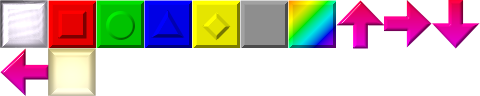
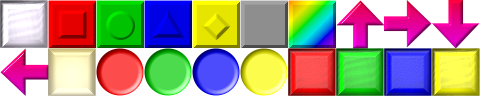
gates

diff --git a/tb.js b/tb.js
@@ -26,9 +26,10 @@ var level = 0;
 
 var BLOCK_CODE = ['1', '2', '3', '4', '5', '6', '9'];
 var MOVABLE_CODE = BLOCK_CODE.concat(['0']);
-var SOLID_CODE = MOVABLE_CODE.concat(['X']);
-var BOTTOM_LAYER_CODE = ['W', 'A', 'S', 'D', 'T'];
-var BOTTOM_LAYER_CLASSES = '.leftArrow, .rightArrow, .upArrow, .downArrow, .sticky';
+var GATE_CODE = ['U', 'I', 'O', 'P'];
+var SOLID_CODE = MOVABLE_CODE.concat(GATE_CODE).concat(['X']);
+var BOTTOM_LAYER_CODE = ['W', 'A', 'S', 'D', 'T', 'H', 'J', 'K', 'L'];
+var BOTTOM_LAYER_CLASSES = '.leftArrow, .rightArrow, .upArrow, .downArrow, .sticky, .redTrigger, .greenTrigger, .blueTrigger, .yellowTrigger';
 
 var PROGRESS_KEY = 'tb_level';
 
@@ -558,6 +559,18 @@ function moveBlocks(dirR, dirC) {
 		}
 	}
 	
+	// gate "moves" to fix animation
+	for (var i = 0; i < BOARD_SIZE; ++i) {
+		for (var j = 0; j < BOARD_SIZE; ++j) {
+			if ($.inArray(board[i][j], GATE_CODE) >= 0) {
+				var elem = moveBlock(i, j, i, j);
+				if (elem) {
+					changeSet.push(elem);
+				}
+			}
+		}
+	}
+	
 	return changeSet;
 }
 
@@ -566,6 +579,7 @@ function eliminateBlocks() {
 	for (var i = 0; i < BOARD_SIZE; ++i){
 		for (var j = 0; j < BOARD_SIZE; ++j) {
 			if ($.inArray(board[i][j], BLOCK_CODE) >= 0) {
+				// normal blocks
 				var color = board[i][j];
 				var visited = [];
 				for (var k = 0; k < BOARD_SIZE; ++k) 
@@ -615,6 +629,51 @@ function eliminateBlocks() {
 					for (var i in eliminated) {
 						board[eliminated[i][0]][eliminated[i][1]] = bottomBoard[eliminated[i][0]][eliminated[i][1]];
 						eliminateSet.push(eliminated[i]);
+					}
+				}
+				
+				// gates
+				if (bottomBoard[i][j] == 'H') {
+					for (var k = 0; k < BOARD_SIZE; ++k){
+						for (var l = 0; l < BOARD_SIZE; ++l) {
+							if (board[k][l] == 'U') {
+								board[k][l] = '.';
+								eliminateSet.push([k, l]);
+							}
+						}
+					}
+				}
+				
+				if (bottomBoard[i][j] == 'J') {
+					for (var k = 0; k < BOARD_SIZE; ++k){
+						for (var l = 0; l < BOARD_SIZE; ++l) {
+							if (board[k][l] == 'I') {
+								board[k][l] = '.';
+								eliminateSet.push([k, l]);
+							}
+						}
+					}
+				}
+				
+				if (bottomBoard[i][j] == 'K') {
+					for (var k = 0; k < BOARD_SIZE; ++k){
+						for (var l = 0; l < BOARD_SIZE; ++l) {
+							if (board[k][l] == 'O') {
+								board[k][l] = '.';
+								eliminateSet.push([k, l]);
+							}
+						}
+					}
+				}
+				
+				if (bottomBoard[i][j] == 'L') {
+					for (var k = 0; k < BOARD_SIZE; ++k){
+						for (var l = 0; l < BOARD_SIZE; ++l) {
+							if (board[k][l] == 'P') {
+								board[k][l] = '.';
+								eliminateSet.push([k, l]);
+							}
+						}
 					}
 				}
 			}

diff --git a/tb.css b/tb.css
@@ -92,6 +92,46 @@ body {
 	background-position: -48px -48px;
 }
 
+.redTrigger {
+	background-image: url('img/blocks.png');
+	background-position: -96px -48px;
+}
+
+.greenTrigger {
+	background-image: url('img/blocks.png');
+	background-position: -144px -48px;
+}
+
+.blueTrigger {
+	background-image: url('img/blocks.png');
+	background-position: -192px -48px;
+}
+
+.yellowTrigger {
+	background-image: url('img/blocks.png');
+	background-position: -240px -48px;
+}
+
+.redGate {
+	background-image: url('img/blocks.png');
+	background-position: -288px -48px;
+}
+
+.greenGate {
+	background-image: url('img/blocks.png');
+	background-position: -336px -48px;
+}
+
+.blueGate {
+	background-image: url('img/blocks.png');
+	background-position: -384px -48px;
+}
+
+.yellowGate {
+	background-image: url('img/blocks.png');
+	background-position: -432px -48px;
+}
+
 .panel {
 	background: #dddddd; /* Old browsers */
 	background: -moz-linear-gradient(top, #dddddd 0%, #ffffff 100%); /* FF3.6+ */

diff --git a/tb.html b/tb.html
@@ -84,6 +84,14 @@
 					<div class="palette upArrow" data-code="W"></div>
 					<div class="palette downArrow" data-code="S"></div>
 					<div class="palette sticky" data-code="T"></div>
+					<div class="palette redTrigger" data-code="H"></div>
+					<div class="palette redGate" data-code="U"></div>
+					<div class="palette greenTrigger" data-code="J"></div>
+					<div class="palette blueTrigger" data-code="K"></div>
+					<div class="palette yellowTrigger" data-code="L"></div>
+					<div class="palette greenGate" data-code="I"></div>
+					<div class="palette blueGate" data-code="O"></div>
+					<div class="palette yellowGate" data-code="P"></div>
 				</div>
 			</div>
 		</div>
